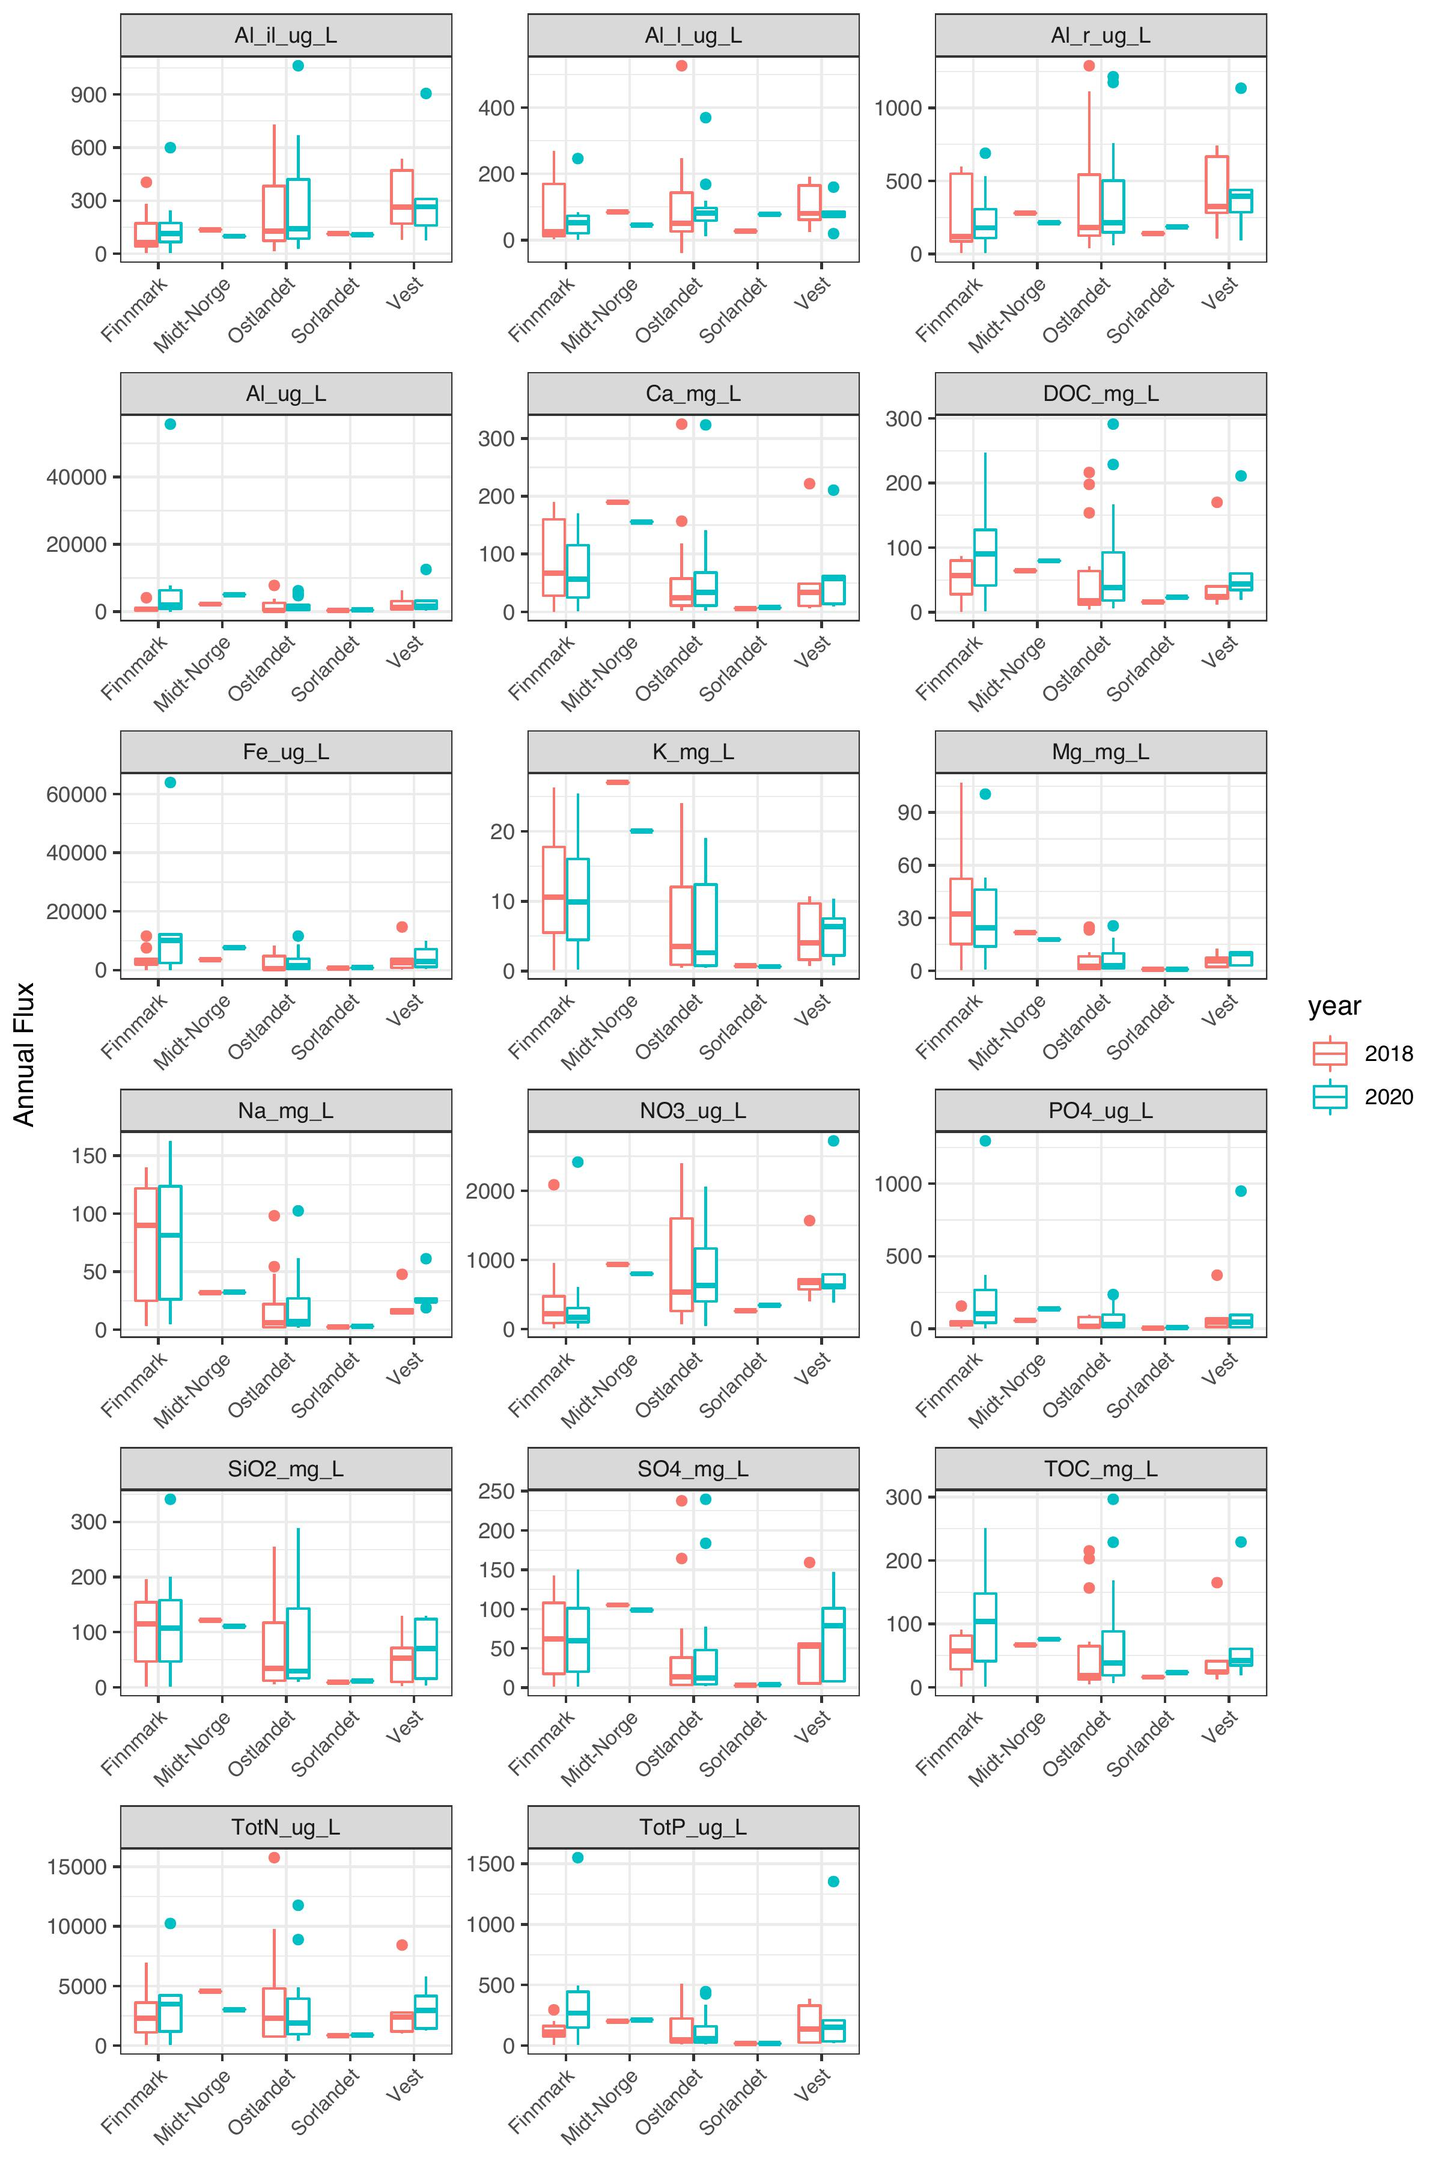
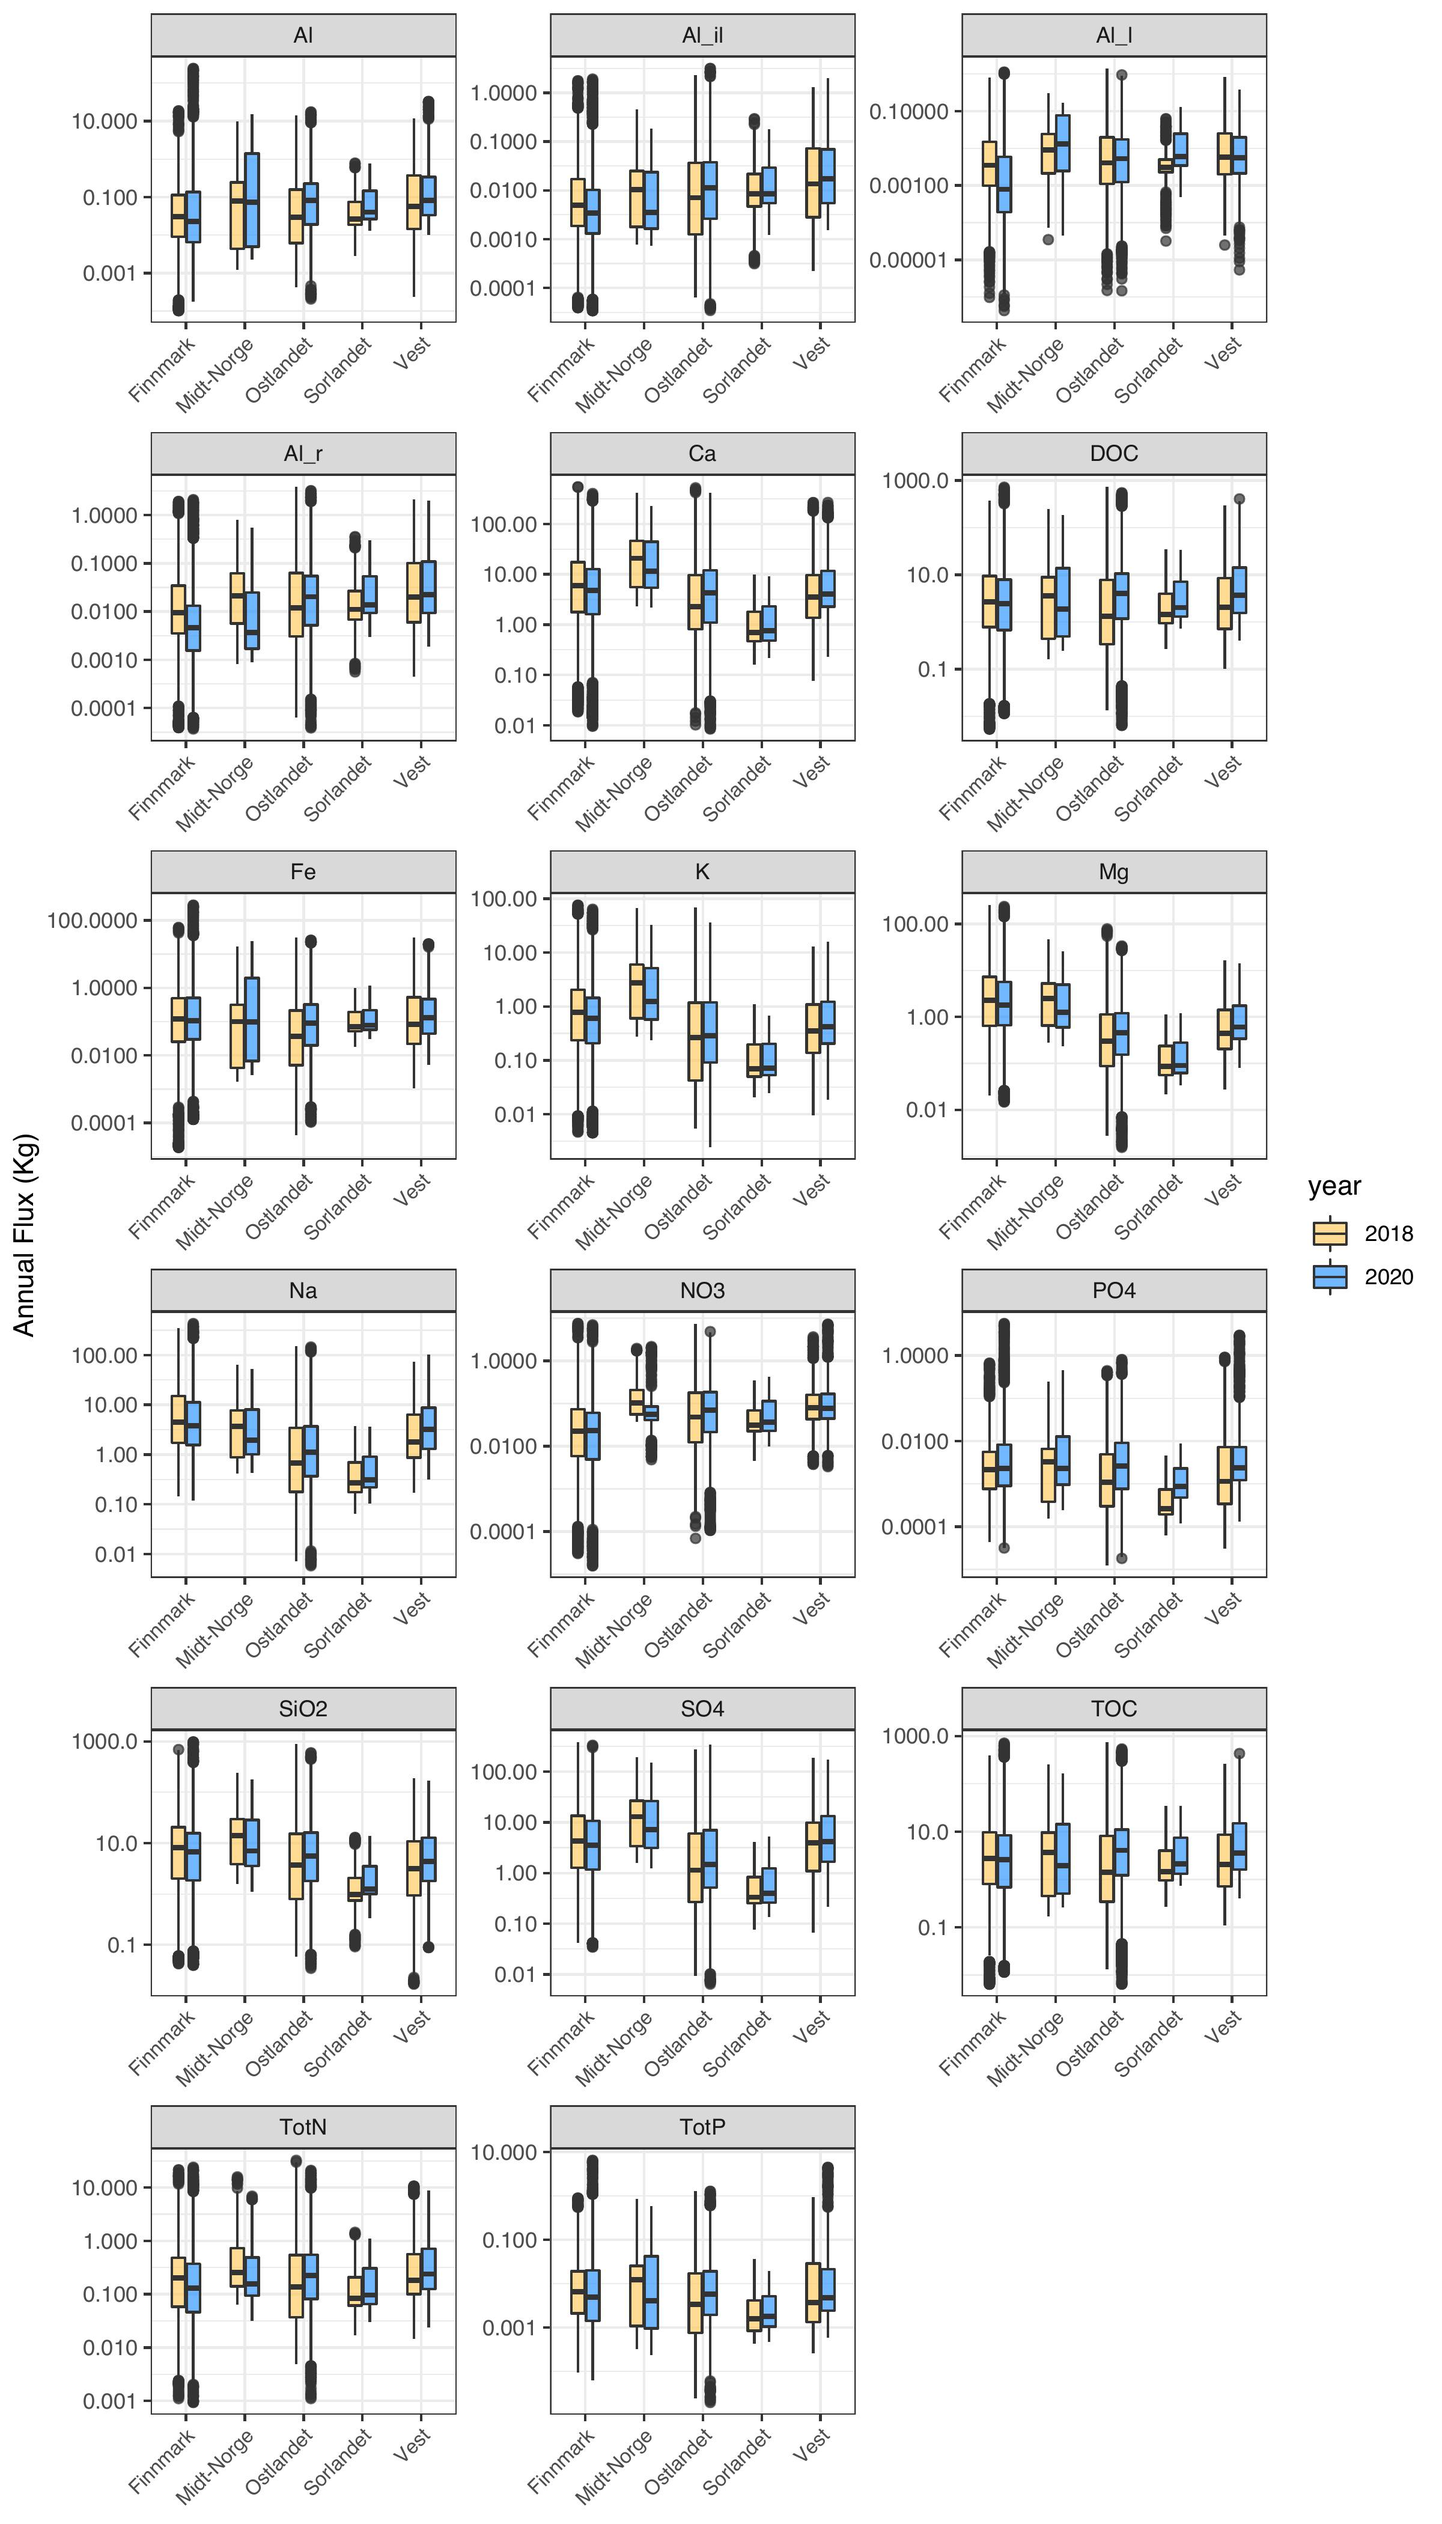
fluxes2

Changed region(s): [[0.0312, 0.0, 0.875, 0.9956], [0.9062, 0.4667, 0.9688, 0.5289], [0.0, 0.4356, 0.0312, 0.5289]]

diff --git a/docs/book_fluxes.html b/docs/book_fluxes.html
@@ -161,6 +161,11 @@ ul.task-list{list-style: none;}
 </div>
 </div>
 </div>
+<div class="quarto-figure quarto-figure-center">
+<figure class="figure">
+<p><img src=".png" class="img-fluid figure-img"></p>
+</figure>
+</div>
 
 
 
